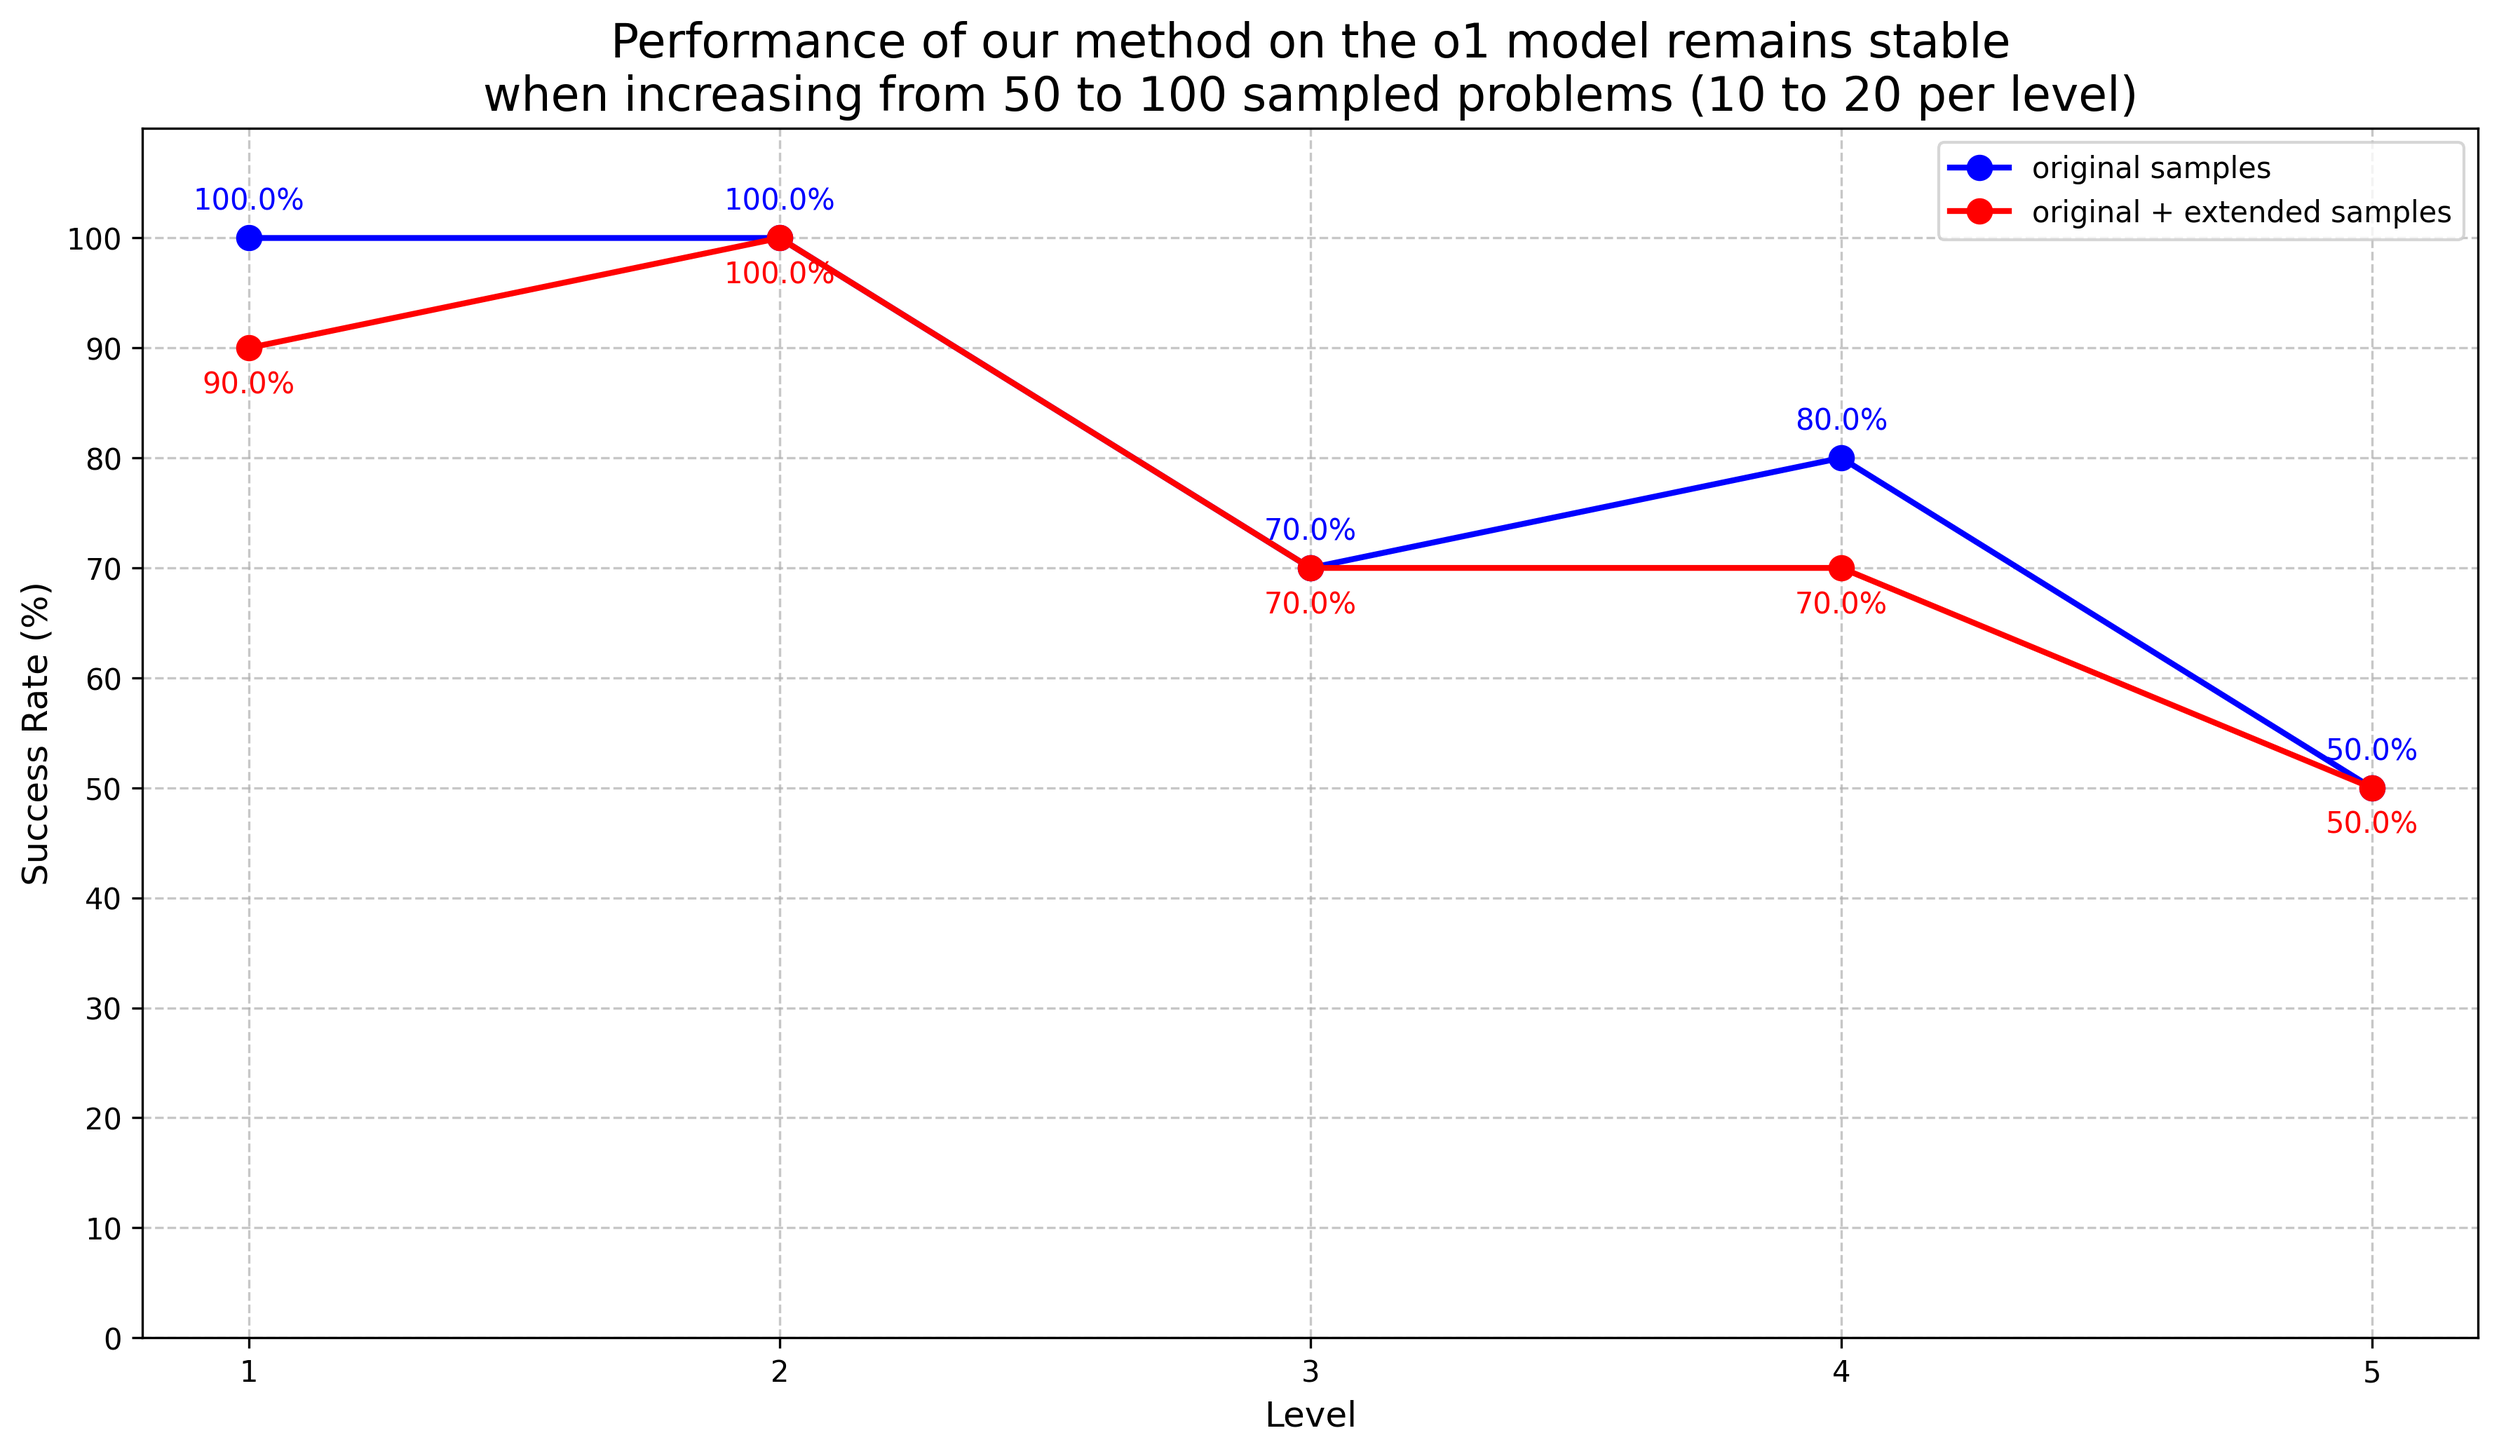
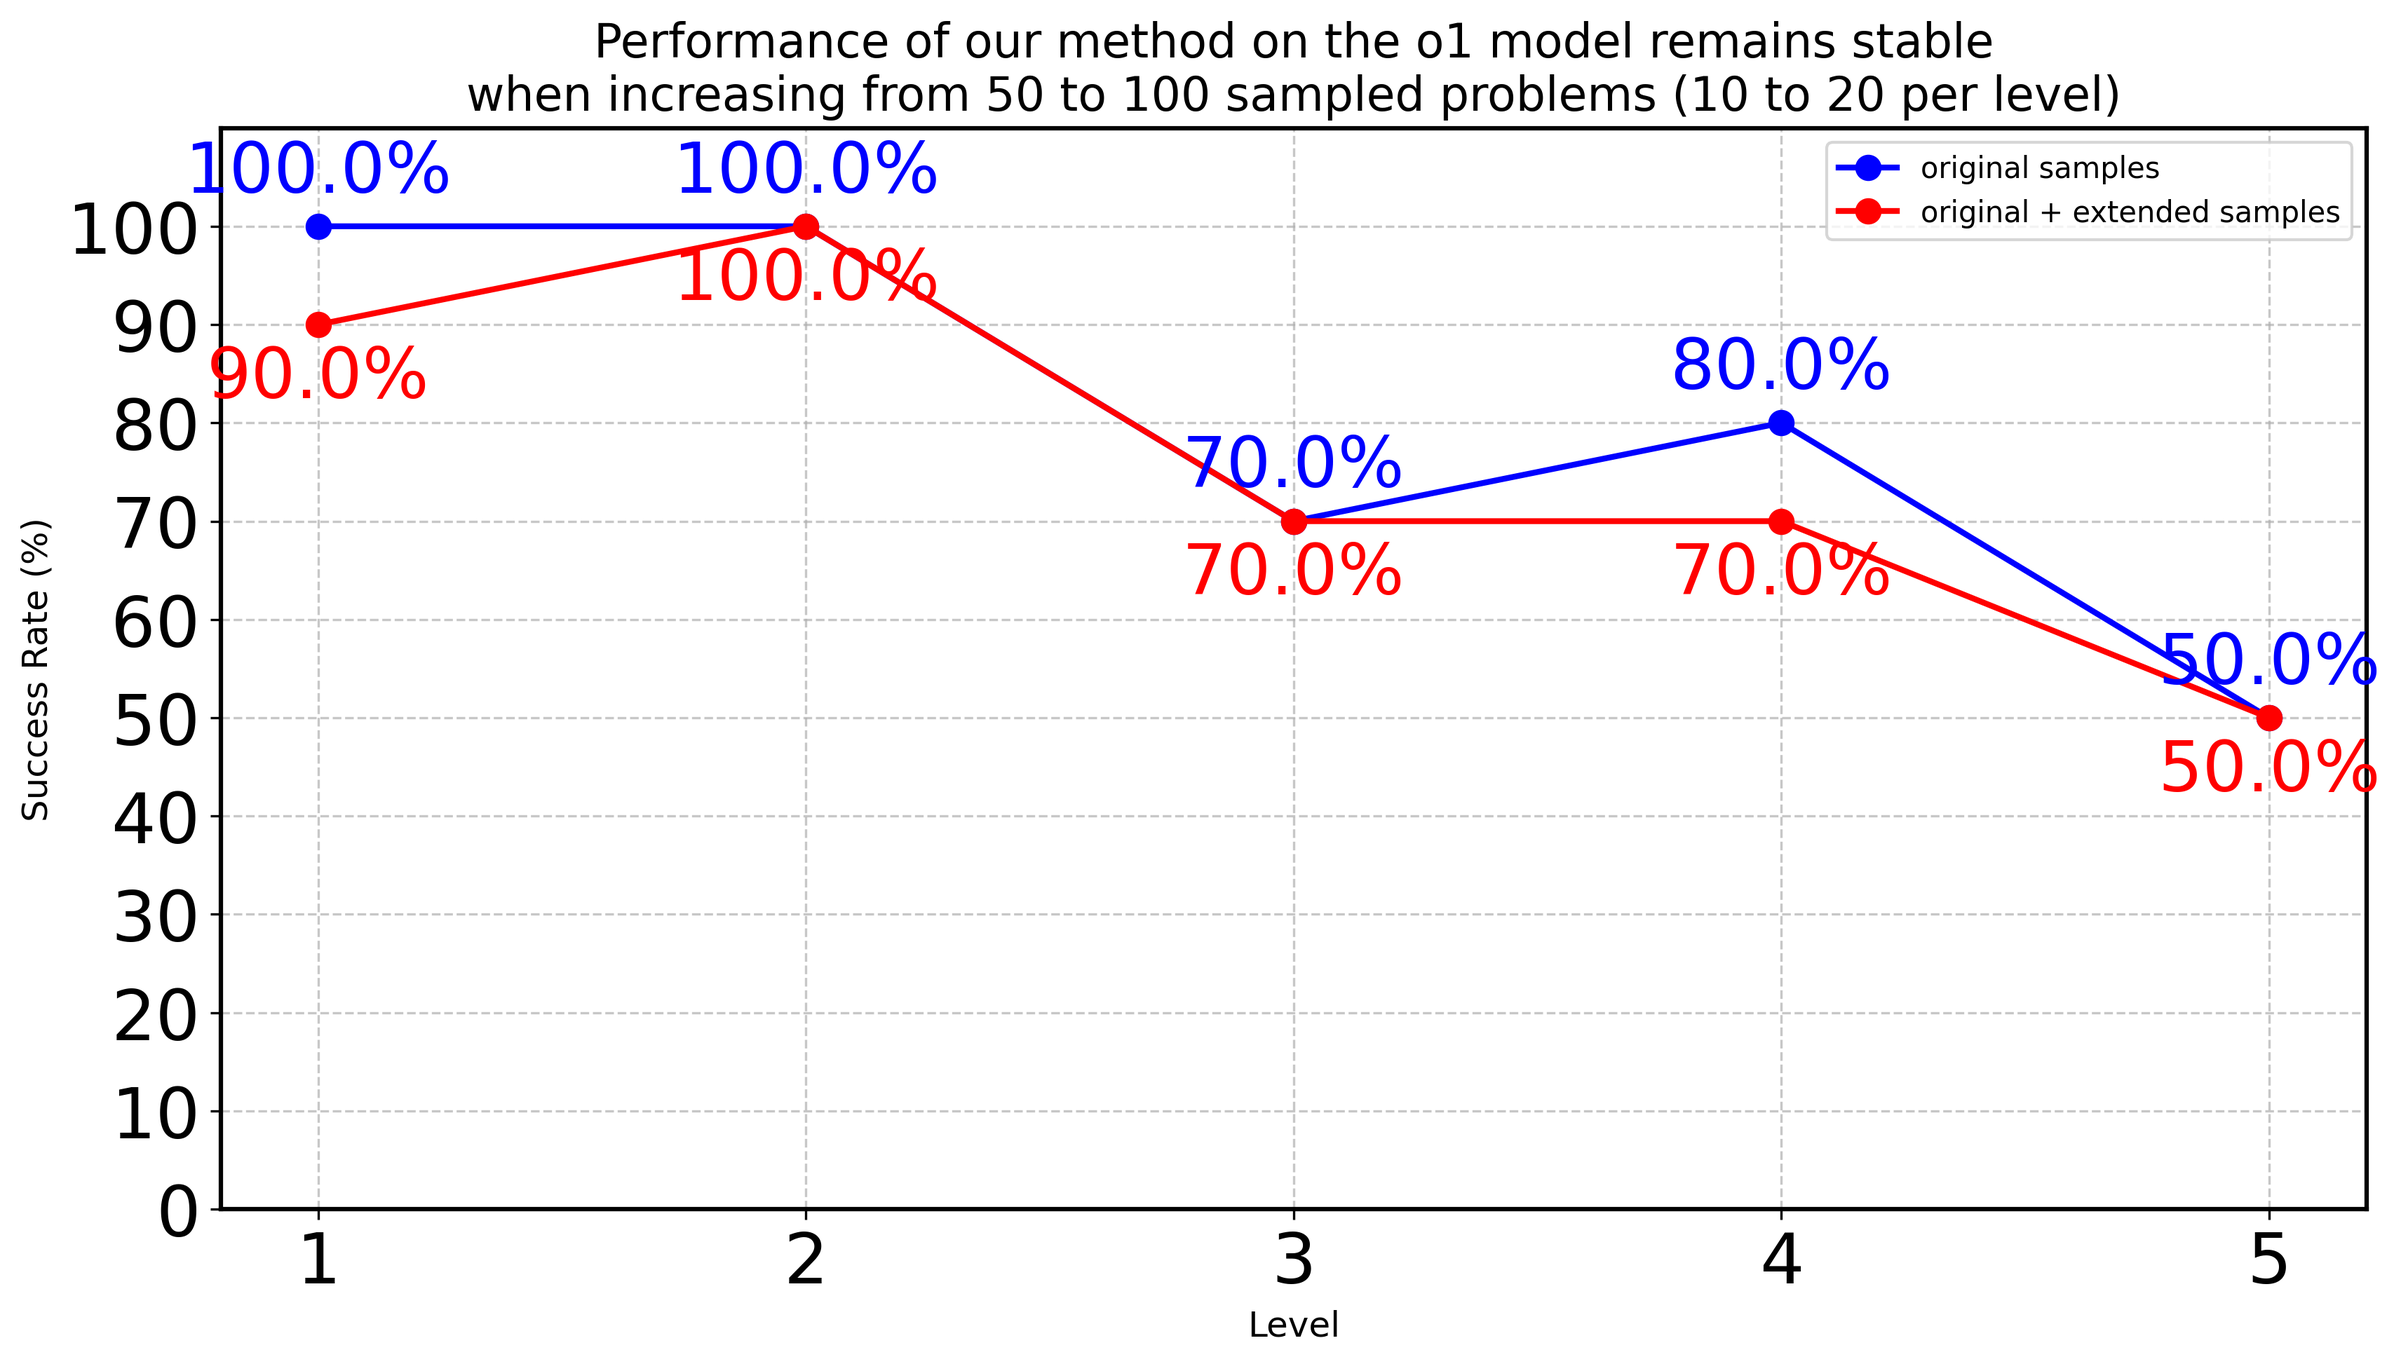
update plots

diff --git a/src/formalgeo/experiments/exp_new.py b/src/formalgeo/experiments/exp_new.py
@@ -540,50 +540,79 @@ def plot_ablation_study(base_path):
     mrv_vs_mrv_p_value = perform_mcnemar_test(mrv_vs_mrv_test, "test", base_path)
     
     # Create the plot
-    plt.figure(figsize=(12, 7))
+    plt.figure(figsize=(22, 17), facecolor='white')
+    
+    # Set font sizes and style
+    plt.rcParams['font.size'] = 24
+    plt.rcParams['legend.fontsize'] = 24
+    plt.rcParams['axes.linewidth'] = 1.5
+    plt.rcParams['axes.edgecolor'] = 'black'
+    
+    # Define colors and styles
+    colors = {
+        'analogy': '#1f77b4',  # Blue
+        'random': '#d62728'    # Red
+    }
     
     # Plot lines for each variant and stage
     for variant in variants:
-        color = 'blue' if 'analogy' in variant else 'red'
+        color = colors['analogy'] if 'analogy' in variant else colors['random']
         variant_label = variant.replace("variant_", "").replace("_model_o1", "").replace("random_all_theorems", "random")
         
-        # Plot FT first
+        # Plot FT first (solid line with circles)
         plt.plot(levels, success_rates[variant]["ft"], 'o-', 
-                label=f'{variant_label} - First attempt',
-                linewidth=2, markersize=8, color=color)
+                label=f'{variant_label} - First run, no retries',
+                linewidth=3, markersize=14, color=color, alpha=0.9)
         
-        # Plot FRV second
+        # Plot FRV second (dashed line with squares)
         plt.plot(levels, success_rates[variant]["frv"], 's--', 
-                label=f'{variant_label} - First run w. retries',
-                linewidth=2, markersize=8, color=color)
+                label=f'{variant_label} - First run, with retries',
+                linewidth=3, markersize=14, color=color, alpha=0.9)
         
-        # Plot MRV last with solid triangles
+        # Plot MRV last (dotted line with triangles)
         plt.plot(levels, success_rates[variant]["mrv"], '^:', 
-                label=f'{variant_label} - Multiple runs w. retries',
-                linewidth=2, markersize=8, color=color)
+                label=f'{variant_label} - Multiple runs, with retries',
+                linewidth=3, markersize=14, color=color, alpha=0.9)
         
         # Add markers for MRV points that have the same value as FRV
         for i in range(len(levels)):
             if success_rates[variant]["mrv"][i] == success_rates[variant]["frv"][i]:
                 plt.plot(levels[i], success_rates[variant]["mrv"][i], '^', 
-                        color=color, markersize=8)
+                        color=color, markersize=14, alpha=0.9)
     
     # Customize the plot
-    plt.xlabel('Level', fontsize=18)
-    plt.ylabel('Cumulative Success Rate (%)', fontsize=18)
-    plt.title('Our analogy-based method outperforms the random baseline\nin all o1 model ablations (50 samples)', fontsize=24)
-    plt.grid(True, linestyle='--', alpha=0.7)
-    plt.legend(fontsize=9, loc='upper right', bbox_to_anchor=(0.98, 0.98), framealpha=1.0)
-    plt.xticks(levels)
+    plt.xlabel('Level', fontsize=24, labelpad=15)
+    plt.ylabel('Cumulative Success Rate (%)', fontsize=24, labelpad=15)
+    plt.title('Our analogy-based method outperforms the random baseline\nin all o1 model ablations (50 samples)', 
+             fontsize=28, pad=20)
+    
+    # Customize grid
+    plt.grid(True, linestyle='--', alpha=0.3, color='gray')
+    
+    # Customize legend
+    legend = plt.legend(fontsize=24, loc='upper right', bbox_to_anchor=(0.98, 0.98),
+                       framealpha=1.0, edgecolor='black', frameon=True)
+    legend.get_frame().set_linewidth(1.5)
+    
+    # Customize ticks
+    plt.xticks(levels, fontsize=20)
+    plt.yticks(np.arange(0, 110, 10), fontsize=20)
+    
+    # Set axis limits with more padding
+    plt.xlim(0.5, 5.5)  # Keep the same x-axis limits
     plt.ylim(0, 110)
-    plt.yticks(np.arange(0, 110, 10))
     
-    # Adjust x-axis limits to make the graph wider
-    plt.xlim(0.5, 5.5)  # Extend x-axis limits slightly beyond the data points
+    # Remove top and right spines
+    plt.gca().spines['top'].set_visible(False)
+    plt.gca().spines['right'].set_visible(False)
     
-    # Add value labels on the points
+    # Make left and bottom spines thicker
+    plt.gca().spines['left'].set_linewidth(1.5)
+    plt.gca().spines['bottom'].set_linewidth(1.5)
+    
+    # Add value labels on the points with more horizontal spacing
     for variant in variants:
-        color = 'blue' if 'analogy' in variant else 'red'
+        color = colors['analogy'] if 'analogy' in variant else colors['random']
         for stage in ["ft", "frv", "mrv"]:
             for i in range(len(levels)):
                 rate = success_rates[variant][stage][i]
@@ -591,17 +620,19 @@ def plot_ablation_study(base_path):
                     # Skip MRV label if it has the same value as FRV
                     if stage == "mrv" and rate == success_rates[variant]["frv"][i]:
                         continue
-                    # Adjust vertical position of labels to prevent overlap
-                    offset = 2
+                    # Adjust vertical position of labels to be below the points
+                    offset = -2
                     plt.text(levels[i], rate + offset, 
                             f'{rate:.1f}%', 
-                            ha='center', va='bottom', color=color)
+                            ha='center', va='top', color=color, 
+                            fontsize=18, fontweight='bold')
     
-    # Adjust layout
-    plt.tight_layout()
+    # Adjust layout with more padding
+    plt.tight_layout(pad=2.0)
     
-    # Save the plot
-    plt.savefig(os.path.join(base_path, 'success_rates_progression.png'), dpi=300, bbox_inches='tight')
+    # Save the plot with high DPI and white background
+    plt.savefig(os.path.join(base_path, 'success_rates_progression.png'), 
+                dpi=300, bbox_inches='tight', facecolor='white')
     plt.close()
     
     return problem_status
@@ -1353,13 +1384,13 @@ def analyze_errors(base_path):
                     # Find all error messages after ERROR_TIER
                     error_sections = content.split("ERROR_TIER: ")
                     if len(error_sections) > 1:  # If there are any errors
+                        has_errors = True
+                        print(f"  Run {run_number}:")
                         for section in error_sections[1:]:  # Skip the first split which is before any ERROR_TIER
-                            # Extract the error message (everything until the first newline)
-                            error_msg = section.split("\n")[0].strip()
+                            # Get the complete error message including all content after ERROR_TIER
+                            error_msg = section.strip()
                             if error_msg:
-                                problem_errors.append(error_msg)
-                                # Update error frequency
-                                error_analysis[variant][level]["error_frequency"][error_msg] = error_analysis[variant][level]["error_frequency"].get(error_msg, 0) + 1
+                                print(f"    - {error_msg}")
                 
                 # Store errors for this problem if any were found
                 if problem_errors:
@@ -1410,6 +1441,49 @@ def analyze_errors(base_path):
         sorted_overall_tiers = sorted(overall_tier_freq.items())
         for tier_num, count in sorted_overall_tiers:
             print(f"TIER_{tier_num}: {count} errors")
+    
+    # Print detailed error messages for all problems
+    print("\nDetailed Error Messages for All Problems:")
+    print("=" * 70)
+    for variant in variants:
+        print(f"\n{variant}:")
+        print("-" * 50)
+        for level in levels:
+            print(f"\nLevel {level}:")
+            print("-" * 30)
+            level_dir = os.path.join(base_path, f"level_{level}")
+            if not os.path.exists(level_dir):
+                continue
+                
+            # Get the list of problem IDs for this level
+            level_problem_ids = set(LEVEL_PROBLEMS[level])
+            
+            for problem_id in sorted(level_problem_ids):
+                has_errors = False
+                print(f"\nProblem {problem_id}:")
+                
+                # Check all runs for this problem
+                for run_number in range(3):  # Check runs 0, 1, and 2
+                    file_path = os.path.join(level_dir, f"{variant}_problem_{problem_id}_run_{run_number}.txt")
+                    if not os.path.exists(file_path):
+                        continue
+                        
+                    with open(file_path, 'r') as f:
+                        content = f.read()
+                        
+                    # Find all error messages after ERROR_TIER
+                    error_sections = content.split("ERROR_TIER: ")
+                    if len(error_sections) > 1:  # If there are any errors
+                        has_errors = True
+                        print(f"  Run {run_number}:")
+                        for section in error_sections[1:]:  # Skip the first split which is before any ERROR_TIER
+                            # Get the complete error message including all content after ERROR_TIER
+                            error_msg = section.strip()
+                            if error_msg:
+                                print(f"    - {error_msg}")
+                
+                if not has_errors:
+                    print("  No errors found")
     
     # Create the plot
     plot_tier_error_distribution(error_analysis, base_path)
@@ -1474,8 +1548,8 @@ def plot_tier_error_distribution(error_analysis, base_path):
                 print(f"  Average retries per problem: {avg_retries:.2f}")
                 print(f"  Average runs per problem: {avg_runs:.2f}")
     
-    # Create the plot with a white background
-    plt.figure(figsize=(12, 7), facecolor='white')
+    # Create the plot with a white background - increased height
+    plt.figure(figsize=(12, 12), facecolor='white')
     
     # Set width of bars
     bar_width = 0.25
@@ -1531,26 +1605,26 @@ def plot_tier_error_distribution(error_analysis, base_path):
         for i, (analogy_count, random_count) in enumerate(zip(analogy_data, random_data)):
             if analogy_count > 0:
                 plt.text(tier_pos[i], analogy_count + 0.1, str(analogy_count),
-                        ha='center', va='bottom', fontsize=12)
+                        ha='center', va='bottom', fontsize=20)
             if random_count < 0:  # Check for negative value
                 plt.text(tier_pos[i], random_count - 0.1, str(abs(random_count)),  # Use absolute value for display
-                        ha='center', va='top', fontsize=12)
+                        ha='center', va='top', fontsize=20)
     
     # Add labels and title with improved styling
-    plt.xlabel('Level', fontsize=18, labelpad=10)
-    plt.ylabel('Number of Errors', fontsize=18, labelpad=10)
-    plt.title('Our analogy-based method produces fewer errors at all levels.\nIn both variants, errors increase with level; tier-1 errors are the most common.', 
-              fontsize=24, pad=20)
+    plt.xlabel('Level', fontsize=24, labelpad=10)
+    plt.ylabel('Number of Errors', fontsize=24, labelpad=10)
+    plt.title('Our analogy-based method produces fewer errors at all levels.\nIn both variants, errors increase with level.\nTier-1 errors are the most common.',
+              fontsize=28, pad=20)
     
     # Improve x-axis ticks
-    plt.xticks(r + bar_width, levels, fontsize=12)
+    plt.xticks(r + bar_width, levels, fontsize=20)
     
     # Customize y-axis ticks to show absolute values
     yticks = plt.yticks()[0]
-    plt.yticks(yticks, [abs(int(tick)) for tick in yticks], fontsize=12)
+    plt.yticks(yticks, [abs(int(tick)) for tick in yticks], fontsize=20)
     
     # Add legend in top left corner with improved styling
-    legend = plt.legend(fontsize=12, loc='upper left', bbox_to_anchor=(0.02, 0.98), 
+    legend = plt.legend(fontsize=18, loc='upper left', bbox_to_anchor=(0.02, 0.98), 
                        framealpha=1.0, edgecolor='black', frameon=True)
     legend.get_frame().set_linewidth(0.5)
     
